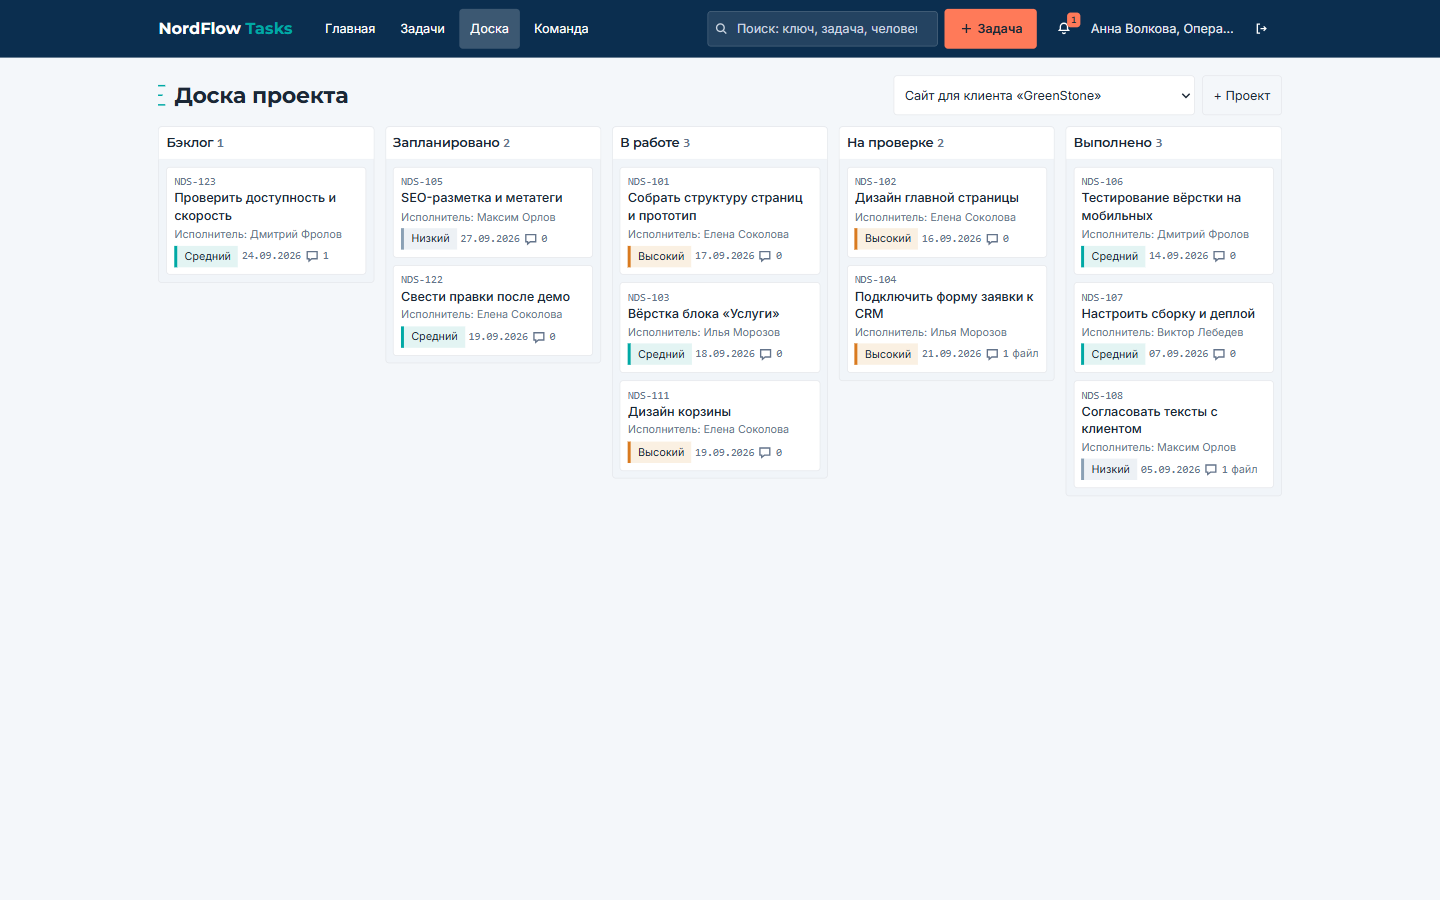
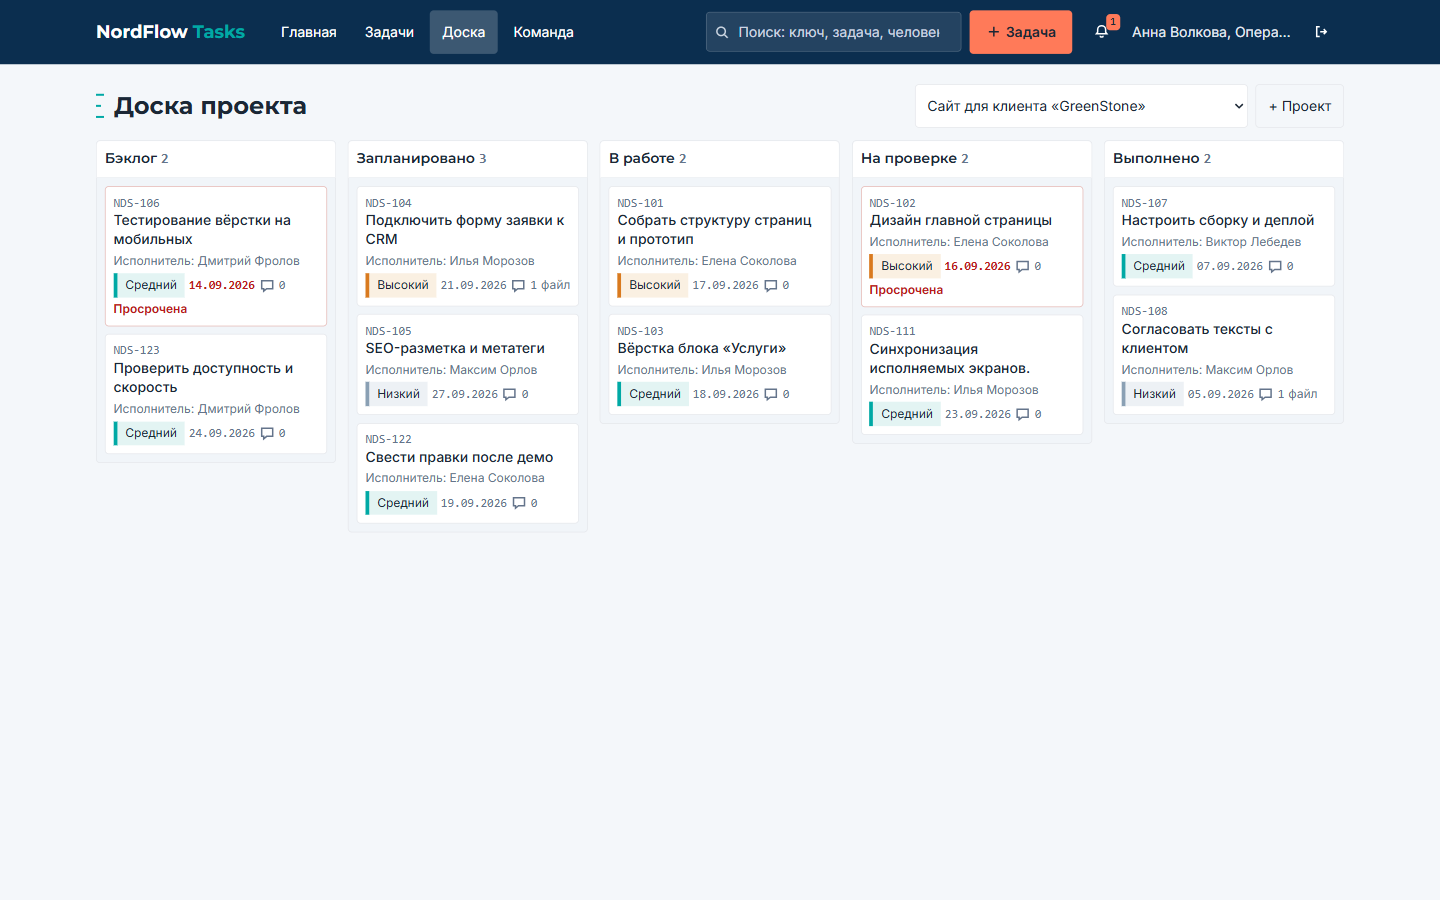
README: пять скриншотов вместо двух
Добавлены вход, список задач и команда, снятые с живого стенда. Требование урока — от трёх скриншотов.

diff --git a/README.md b/README.md
@@ -9,6 +9,10 @@
 
 Живьём: <https://nordflow.veynx.xyz/> — пароль для входа отдаёт `GET /api/demo`, дальше любая учётка из ответа.
 
+**Вход** — быстрый выбор демо-учётки, чтобы не искать пароль из консоли:
+
+![login.png](screenshots/login.png)
+
 **Дашборд** — счётчики, графики по статусам и проектам, ближайшие сроки, лента изменений:
 
 ![dashboard.png](screenshots/dashboard.png)
@@ -16,6 +20,14 @@
 **Канбан-доска** — пять колонок, карточки перетаскиваются мышью между колонками:
 
 ![board.png](screenshots/board.png)
+
+**Задачи** — фильтры по проекту, статусу, приоритету и исполнителю, поиск и просрочки:
+
+![tasks.png](screenshots/tasks.png)
+
+**Команда** — загрузка людей, открытые и просроченные задачи по каждому:
+
+![team.png](screenshots/team.png)
 
 ## Что сделано в этом кейсе
 
